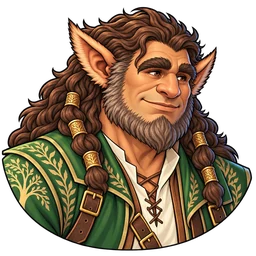
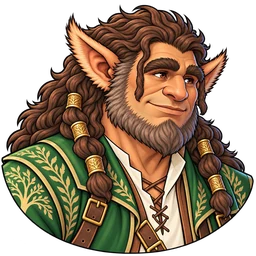
Balefire: small muzzle flare and beam lights ahead of Riley so his black coat isn't washed out; Loial HUD portrait repaint; repaint docs, before/after shots and perf

diff --git a/src/stage1.js b/src/stage1.js
@@ -9,7 +9,7 @@ import { sfx, say, playMusic, preloadVoices, unlock, toggleMusic, toggleMute, st
 import { Bot } from './bot.js';
 import { Loial } from './loial.js';
 // Balefire beam light intensity: bright enough to light nearby figures white-blue without washing them out.
-const BEAM_LIGHT = 1.7;
+const BEAM_LIGHT = 1.5, FLARE_SCALE = 0.5;
 
 const MID_SCALE = 0.76, MID_Y = LANE_TOP - 58;
 // fire spots measured on the plates (plate px): [plateIndex, x, y, intensity, radius]
@@ -327,8 +327,10 @@ export class Stage1 extends Phaser.Scene {
     const glow = this.add.image(x0, y, 'beam').setOrigin(ox, 0.5).setDisplaySize(len, 120).setTint(0x7cc0ff).setAlpha(0.6).setBlendMode('ADD').setDepth(depth);
     const core = this.add.image(x0, y, 'beam').setOrigin(ox, 0.5).setDisplaySize(len, 40).setBlendMode('ADD').setDepth(depth + 1);
     const hot = this.add.image(x0, y, 'beam').setOrigin(ox, 0.5).setDisplaySize(len, 16).setBlendMode('ADD').setDepth(depth + 1);
-    const flare = this.add.image(x0, y, 'glow').setTint(0xdff4ff).setScale(1.6).setBlendMode('ADD').setDepth(depth + 2);
-    const lights = [0.25, 0.7].map(f => this.lights.addLight(x0 + dir * len * f, y + 40, 420, 0xd6ecff, BEAM_LIGHT, 110));
+    // Small muzzle flare just ahead of the palms: a big additive flare washed Riley's black coat out to grey-brown.
+    const flare = this.add.image(x0 + dir * 18, y, 'glow').setTint(0xdff4ff).setScale(FLARE_SCALE).setBlendMode('ADD').setDepth(depth + 2);
+    // Lights ride the beam AHEAD of Riley so they light the foes and ground without washing out his own black coat.
+    const lights = [Math.max(300, len * 0.4), len * 0.82].map(d => this.lights.addLight(x0 + dir * d, y + 40, 380, 0xd6ecff, BEAM_LIGHT, 110));
     this.beam = { t: 0, fade: 0, dir, x0, y, len, glow, core, hot, flare, lights, struck: new Set() };
     this.fx.trauma = Math.min(1, this.fx.trauma + 0.8); this.fx.hitstop = Math.max(this.fx.hitstop, 0.06);
     sfx.balefire(); this.balefireSweep();
@@ -352,7 +354,7 @@ export class Stage1 extends Phaser.Scene {
     if (!B.fade) this.balefireSweep(); else B.fade += dt;
     const k = B.fade ? Math.max(0, 1 - B.fade / 0.25) : Math.min(1, B.t / 0.06), wob = 0.85 + Math.random() * 0.3;
     B.core.setDisplaySize(B.len, 40 * wob * k).setAlpha(k); B.hot.setDisplaySize(B.len, 16 * wob * k).setAlpha(k); B.glow.setDisplaySize(B.len, 120 * (0.9 + Math.random() * 0.2) * k).setAlpha(0.6 * k);
-    B.flare.setScale(1.6 * wob * Math.max(0.2, k)).setAlpha(k);
+    B.flare.setScale(FLARE_SCALE * wob * Math.max(0.2, k)).setAlpha(0.85 * k);
     for (const L of B.lights) L.intensity = this.lightsOn ? BEAM_LIGHT * k * wob : 0;
     if (B.fade && k <= 0) { for (const L of B.lights) this.lights.removeLight(L); B.glow.destroy(); B.core.destroy(); B.hot.destroy(); B.flare.destroy(); this.beam = null; }
   }

diff --git a/docs/stage1/BALEFIRE_LOIAL.md b/docs/stage1/BALEFIRE_LOIAL.md
@@ -45,3 +45,16 @@ combo1 6, combo2 6, combo3 8, back 5, airkick 5, runkick 5, cast 5, knee 5, thro
 | after | 21.11 / 22.08 / 22.22 (avg 21.8) | 96.8 / 97.6 / 95.7 % |
 
 Moment checks (new build, open field after Start): balefire 2 s window 26.2 / 27.5 fps vs 28.7 / 28.1 without; Loial 4 s window 24.5 / 23.0 vs 25.9 / 24.8 without. SwiftShader numbers are relative only, not device numbers.
+
+## Repaint (Jason, Oct 2 10:48 PM PT)
+- **Riley balefire, 8 frames** repainted with ChatGPT image gen via Codex (jfeldman9@gmail.com), from `riley.jpg`, the Riley master and model sheet and the combo frames as references: short dark hair, thin blue-framed glasses, sleeveless black Asha'man coat, 16 and very muscular. Sheet `gen/riley-balefire2/balefire-sheet2.png`, cut into `frames/raw/riley_balefire2`. Checked each frame side by side against the combo frames.
+- **The in-game wash-out was partly the effect.** The old 1.6x additive muzzle flare sat over Riley and turned his black coat grey-brown. Now the flare is small (0.5x) and just ahead of his palms, and the two beam lights sit ahead of him on the beam (at least 300 px out, intensity 1.5). With the beam on, he keeps his black coat in the same lighting as idle.
+- **Loial with boots.** Run and sweep (8 frames) come from a new sheet with knee-high brown leather boots and no hooves (`gen/loial2/loial-sheet2-try2.png`, from the new locked master `master-side2.png`). Two stray pieces were reassigned by hand to the figure they belong to (see `slices.json` `hand_fixes`). The HUD portrait was regenerated with tufted ears and hanging eyebrows (`gen/loial-portrait2/loial-portrait2.png`).
+- The Codex job for the third Loial sheet try hung when the box stalled. I killed it and kept the second try. Both tries are in `gen/loial2/`.
+
+![balefire before/after](repaint-balefire-before-after.jpg)
+![same lighting: idle vs balefire](repaint-balefire-lighting.jpg)
+![Loial before/after](repaint-loial-before-after.jpg)
+![repainted frames](repaint-frames.jpg)
+
+Perf after the repaint (same box, SwiftShader, `?skip=boss&demo=1`, 30 s, alternating): before 326faff 21.67 / 23.23 / 21.01 fps (avg 22.0), after 21.91 / 20.99 / 20.82 (avg 21.2). That is within run-to-run noise on this box. Moments: balefire 2 s window 25.3 / 28.9 fps vs 28.5 / 30.1 without; Loial 4 s window 26.9 / 25.4 vs 29.8 / 27.4 without.
